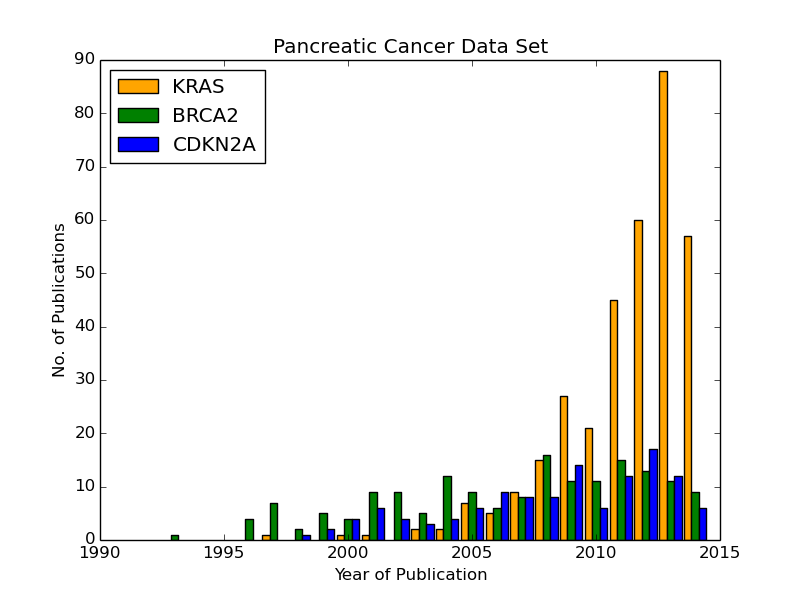
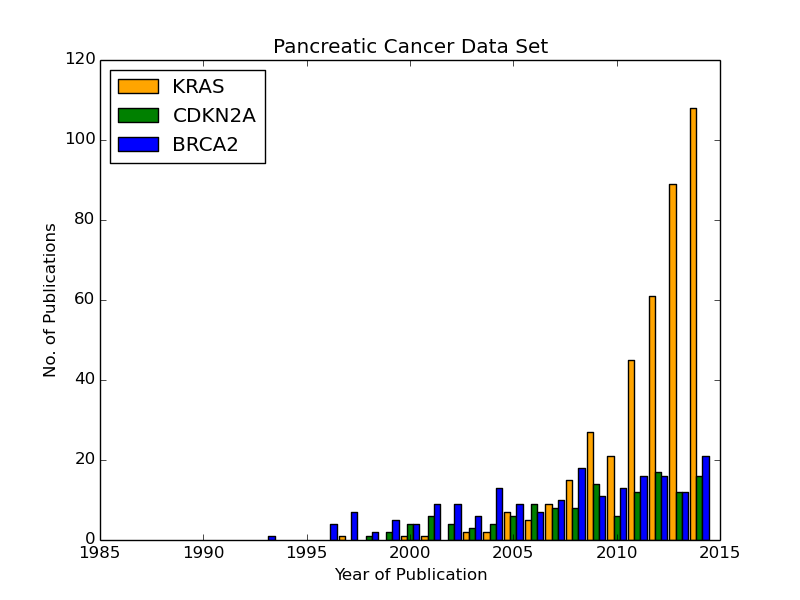
Update PubTator results

diff --git a/plots/bar_chart/merge.py b/plots/bar_chart/merge.py
@@ -1,0 +1,59 @@
+#!/usr/bin/env python
+# -*- coding: UTF-8 -*-
+"""
+    Copyright (c) 2015, Kersten Doering <kersten.doering@gmail.com>
+
+    This script merges the result files from get_years.py. For each Entrez GeneID number, there is a file with the name <identifier>.csv. The gene names are hard-coded. There are three files as output: KRAS.csv, CDKN2A, and BRCA2.csv.
+"""
+
+# to join paths
+import os
+
+# gene names
+names = ["KRAS","BRCA2","CDKN2A"]
+
+# get current path
+mypath = os.getcwd()
+
+# dictionary to store a dictionary with results (year and number of abstracts)
+names_years ={}
+
+# iterate over gene names
+for name in names:
+    # change into gene directory
+    os.chdir(name)
+    # create a new dictionary in the dictioanry names_years
+    names_years[name] = {}
+    # get all files in the current directory
+    files = os.listdir(os.getcwd())
+    # iterate over list of files
+    for infile in files:
+        # open file with years and number of abstracts (comma-separated)
+        f = open(infile,"r")
+        # iterate over lines in file
+        for line in f:
+            # split comma-separated line
+            temp = line.strip().split(",")
+            # if this year was not yet added for the current gene, create it
+            if not temp[0] in names_years[name]:
+                names_years[name][temp[0]] = int(temp[1])
+            # else: sum up the number of abstracts for this year
+            else:
+                names_years[name][temp[0]] += int(temp[1])
+        # close file
+        f.close()
+    # get all yearas for the current gene
+    keys = names_years[name].keys()
+    # sort years in descending order
+    keys.sort(reverse=True)
+    # change back to parent directory
+    os.chdir("..")
+    # create output file with name <gene>.csv
+    outfile = open(name + ".csv","w")
+    # iterate over sorted list of years for this gene
+    for year in keys:
+        # generate comma-separated output (year and number of abstracts)
+        outfile.write(year + "," + str(names_years[name][year]) + "\n")
+    # close file
+    outfile.close()
+

diff --git a/plots/bar_chart/get_years.py b/plots/bar_chart/get_years.py
@@ -42,6 +42,7 @@ if __name__=="__main__":
     parser.add_option("-x", "--xapian_path", dest="x", help='path to the directory containing the PubMed2Go scripts for generating the Xapian full text index',default="../../full_text_index_title_text")
     parser.add_option("-p", "--pmids_input", dest="p", help='name of the input file that contains all PubMed-IDs for the search term', default="results/results.csv")
     parser.add_option("-t", "--terms_input", dest="t", help='name of the input file that contains all search terms that should be shown in the bar chart', default="search_terms.txt")
+    parser.add_option("-o", "--output_folder",dest="o",help='name of the output directory (optional, default: ""', default="")
     (options, args) = parser.parse_args()
 
     # settings for psql connection
@@ -57,6 +58,7 @@ if __name__=="__main__":
     pmids_input         = options.p
     terms_input         = options.t
     xapian_path         = options.x
+    output_path         = options.o
 
     # search terms for RunXapian.py - save in dictionary search_terms, prepare the dictionary for the publication years:
     search_terms = {}
@@ -71,8 +73,8 @@ if __name__=="__main__":
     infile = open(os.path.join(xapian_path, pmids_input),"r")
     for line in infile:
         temp_line = line.strip().split("\t")
-        if temp_line[1] in search_terms:
-            search_terms[temp_line[1]].append(temp_line[0])
+        if temp_line[-1] in search_terms:
+            search_terms[temp_line[-1]].append(temp_line[0])
     infile.close()
 
     # get all years for each search term
@@ -90,7 +92,7 @@ if __name__=="__main__":
         temp_years = counts.keys()
         temp_years.sort(reverse=True)
         # save lists of years in a CSV file with search_term as name
-        outfile = open(search_term + ".csv","w")
+        outfile = open(os.path.join(output_path,search_term) + ".csv","w")
         for year in temp_years:
             outfile.write(str(year) + "," + str(counts[year]) + "\n")
         outfile.close()

diff --git a/plots/bar_chart/create_bar_chart.py b/plots/bar_chart/create_bar_chart.py
@@ -31,8 +31,8 @@ if __name__=="__main__":
         infile3 = open("CDKN2A_pubmed.csv","r")
     else:
         infile = open("KRAS.csv","r")
-        infile2 = open("BRCA2.csv","r")
-        infile3 = open("CDKN2A.csv","r")
+        infile2 = open("CDKN2A.csv","r")
+        infile3 = open("BRCA2.csv","r")
 
 
     # prepare data for the first search term (KRAS) 
@@ -68,7 +68,7 @@ if __name__=="__main__":
 
     # limit range of x-axis and y-axis
     #plt.ylim(0,100)
-    plt.xlim(1990,2015)
+    plt.xlim(1985,2015)
 
     # year 2015 cannot be considered as a complete year - delete this bar
     # all three cases refer to the year 2015
@@ -90,7 +90,7 @@ if __name__=="__main__":
     p1 = ax.bar(data, bins,width=w, color='orange',align='center')
     p2 = ax.bar(data_2, bins_2 ,width=w, color='green',align='center')
     p3 = ax.bar(data_3, bins_3 ,width=w, color='blue',align='center')
-    ax.legend((p1[0],p2[2],p3[0]),("KRAS","BRCA2","CDKN2A"),loc=2)
+    ax.legend((p1[0],p2[2],p3[0]),("KRAS","CDKN2A","BRCA2"),loc=2)
 
     # add lables for x-axis and y-axis
     plt.ylabel("No. of Publications")
@@ -106,7 +106,7 @@ if __name__=="__main__":
     if pubmed:
         plt.savefig("KRAS_BRCA2_CDKN2A_pubmed.png")
     else:
-        plt.savefig("KRAS_BRCA2_CDKN2A.png")
+        plt.savefig("KRAS_CDKN2A_BRCA2.png")
 
     # show plot on screen
     #plt.show()
